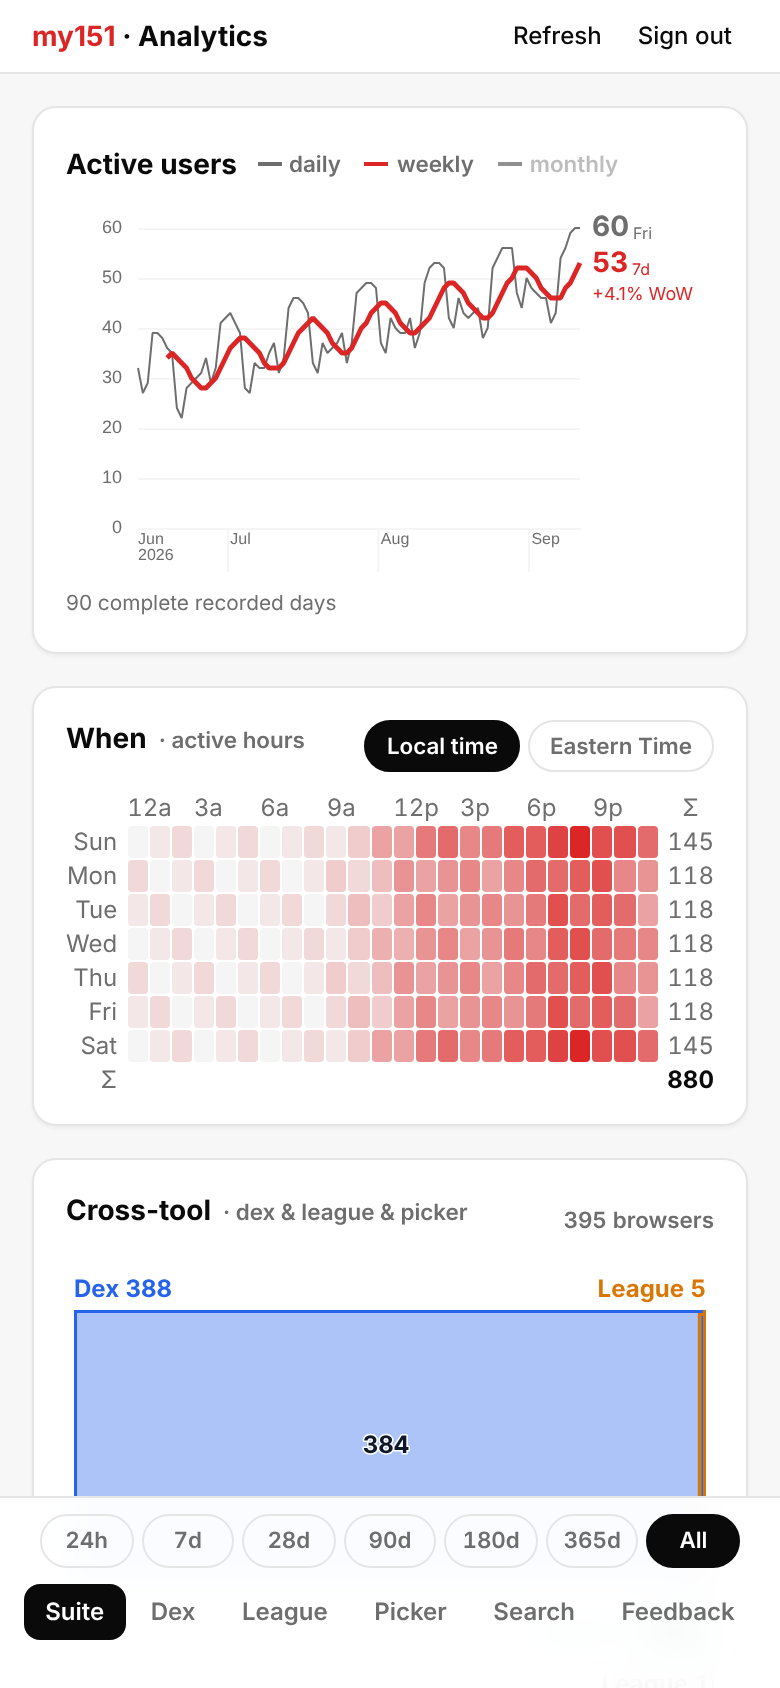
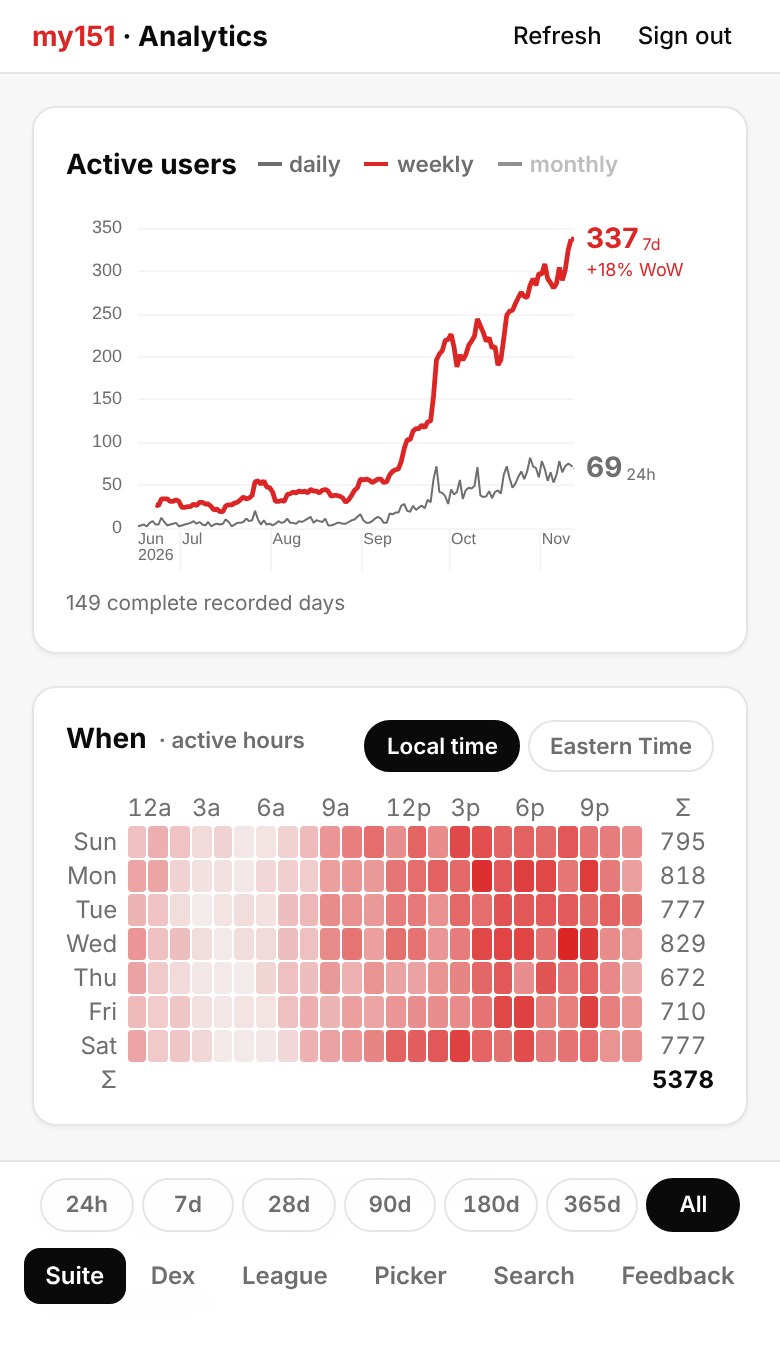
Show live admin data in the README screenshots
Replace the three sample-data screenshots of the admin dashboard with
captures of the live dashboard, all-time range, taken on
November 12, 2026. The owner approved public aggregate admin stats on
that date and keeps Google search keywords private.

Add a Search tab screenshot to the analytics section. It shows the
totals and the line chart only. The capture hid the keyword and page
tables before the screenshot, and a DOM text check and an OCR check
found no query string in the frame other than the site name.

Change the captions to "Live data, November 12, 2026." In the mirror
policy, update the reasons for the three admin images and allow the
new search image.

diff --git a/README.md b/README.md
@@ -34,20 +34,24 @@ The server stores no usage records from these browsers:
 Requests to a deploy URL other than my151.app store nothing either.
 The dashboard's counts differ from Vercel Web Analytics, which counts daily unique visitors by a rotating hash instead of a stored browser ID.
 
-The screenshots show sample data.
+The screenshots show live data for all time, captured on November 12, 2026.
 `/?admin&demo` renders the dashboard from the synthetic fixtures in [`src/components/admin/__fixtures__/`](src/components/admin/__fixtures__), with no token and no API call.
 
-![The Suite tab of the admin dashboard on a desktop screen, with a line chart of active browsers from June to September and a heatmap of active hours by weekday.](docs/readme/admin-dashboard-desktop.webp)
+![The Suite tab of the admin dashboard on a desktop screen, with a line chart of active browsers from June to November and a heatmap of active hours by weekday.](docs/readme/admin-dashboard-desktop.webp)
 
-*Sample data. The Suite tab on a desktop screen, 1280 pixels wide.*
+*Live data, November 12, 2026. The Suite tab on a desktop screen, 1280 pixels wide.*
 
-![The Flows panel of the admin dashboard, with a Sankey diagram of the Dex Builder funnel from the intro screen to completed and exported Pokédexes.](docs/readme/admin-dashboard-flows-desktop.webp)
+![The Flows panel of the admin dashboard, with a Sankey diagram of the Dex Builder funnel from the intro screen to bounced, completed, and exported Pokédexes.](docs/readme/admin-dashboard-flows-desktop.webp)
 
-*Sample data. The Dex Builder funnel in the Flows panel.*
+*Live data, November 12, 2026. The Dex Builder funnel in the Flows panel.*
+
+![The Search tab of the admin dashboard on a desktop screen, with totals for Google clicks, impressions, click-through rate, and average position above a line chart of daily clicks and impressions.](docs/readme/admin-search-desktop.webp)
+
+*Live data, November 12, 2026. The Search tab with Google Search Console data. The keyword and page tables are hidden.*
 
 <img src="docs/readme/admin-dashboard-phone.webp" width="390" alt="The admin dashboard on a phone screen, with the active-browsers chart, the active-hours heatmap, and the section bar at the bottom.">
 
-*Sample data. The Suite tab on a phone screen, 390 pixels wide.*
+*Live data, November 12, 2026. The Suite tab on a phone screen, 390 pixels wide.*
 
 ## Start here
 
